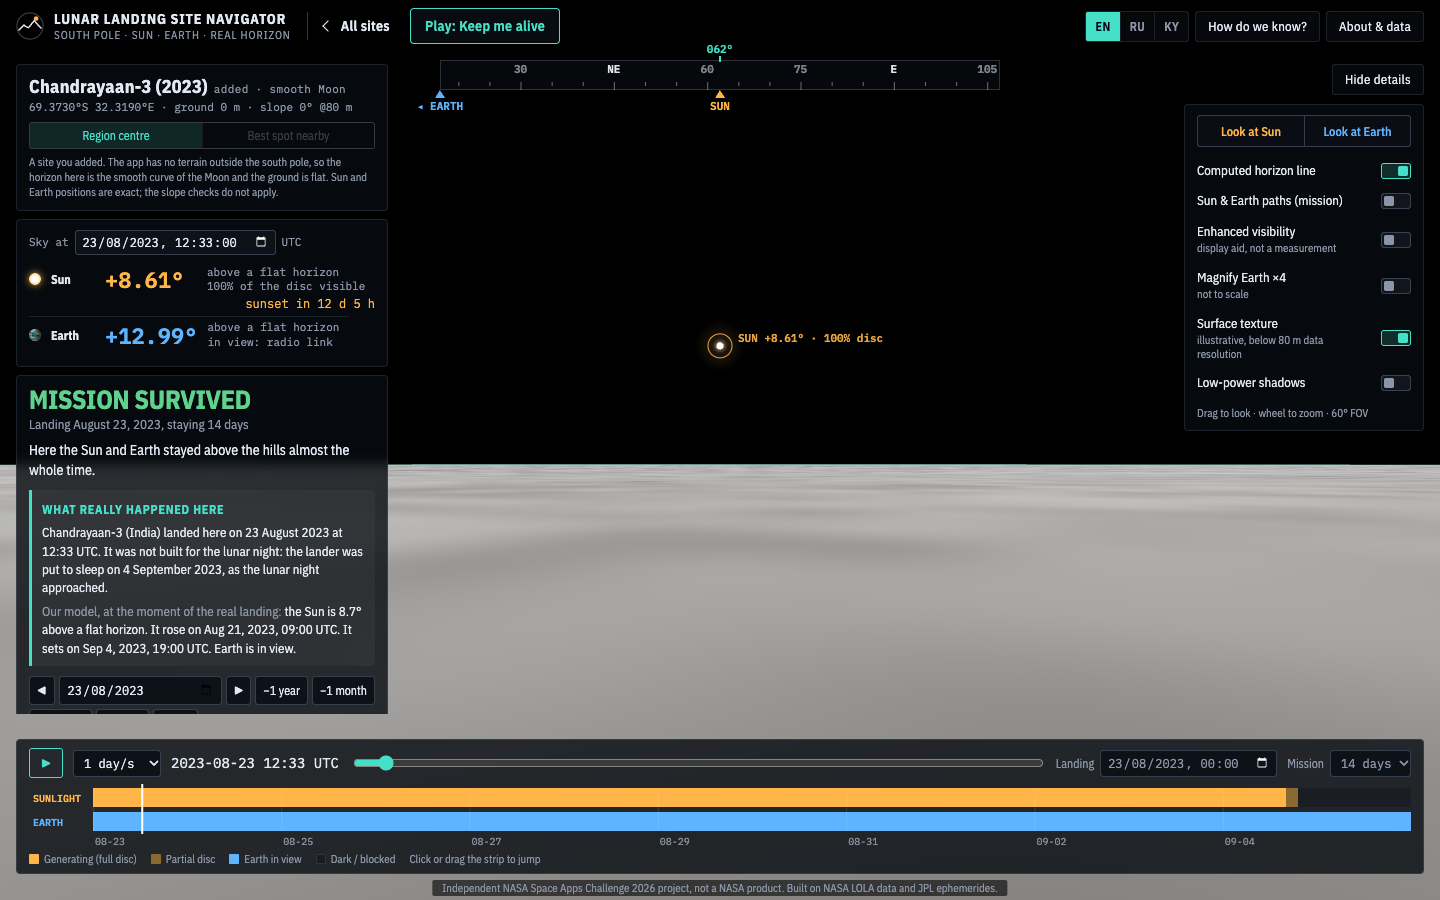
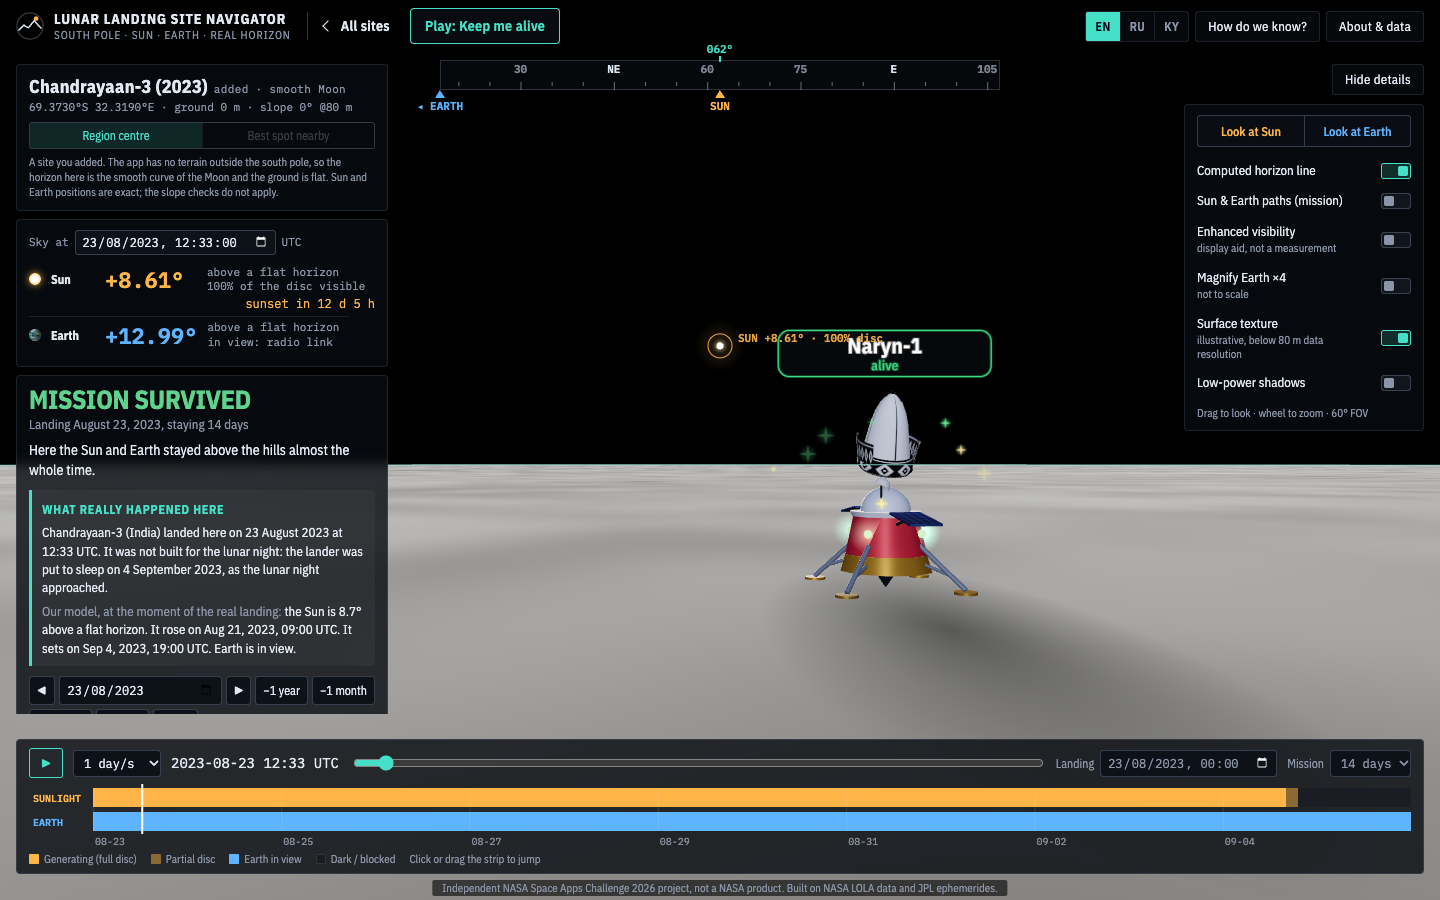
Four kids features together: mode buttons sit beside the lander card instead of on the day table, the card lies flat on ordinary screens, the empty button column lets taps through to the Moon (found by the ice hunter test on merged main), the lander name check counts only tags the name adds, npm run

Changed region(s): [[0.5625, 0.3422, 0.7812, 0.8089]]

diff --git a/app/css/app.css b/app/css/app.css
@@ -367,7 +367,10 @@ button:focus-visible, input:focus-visible, select:focus-visible, summary:focus-v
 @media (max-width: 760px) { #topbar { gap: 8px; } #back { border-left: 0; padding: 5px 0; font-size: 13px; gap: 6px; } #more { bottom: 262px; } html.min #more { bottom: 192px; } }
 
 /* ---------- kids features: one column of buttons on the map (#kidbar), one slot in the top bar on the site (#sitekid) ---------- */
-#kidbar { position: fixed; left: 16px; top: 64px; z-index: 12; display: flex; flex-direction: column; align-items: flex-start; gap: 8px; max-width: 300px; }
+/* The lander card first, the mode buttons beside it: a column would push them onto the day table below. */
+#kidbar { position: fixed; left: 16px; top: 64px; z-index: 12; display: flex; flex-flow: row wrap; align-items: flex-start; gap: 8px; max-width: min(760px, calc(100vw - 32px)); }
+/* The column is an empty box over the Moon: only its buttons and cards take the pointer, a tap beside them reaches the Moon. */
+#kidbar { pointer-events: none; } #kidbar > * { pointer-events: auto; }
 #sitekid { display: flex; gap: 8px; }
 .kidbtn { background: rgba(10,14,20,.78); border: 1px solid var(--teal); color: var(--teal); padding: 8px 14px; border-radius: 4px; cursor: pointer; font-weight: 600; font-size: 14px; letter-spacing: .02em; backdrop-filter: blur(6px); }
 .kidbtn:hover, .kidbtn.on { background: var(--teal); color: #001; }

diff --git a/app/css/lander.css b/app/css/lander.css
@@ -55,5 +55,12 @@
   .kl-card.closed { width: auto; flex: none; }
   .kl-prev { height: 120px; }
 }
-@media (max-height: 820px) and (min-width: 761px) { .kl-hint { display: none; } }
+/* A desktop screen of ordinary height: the card lies flat (picture left, choices right), clear of the day table below. */
+@media (max-height: 900px) and (min-width: 761px) {
+  .kl-card:not(.closed) { width: 500px; }
+  .kl-body { grid-template-columns: 150px 1fr; column-gap: 12px; }
+  .kl-prev { grid-column: 1; grid-row: 1 / span 4; height: auto; min-height: 150px; }
+  .kl-body > .kl-row { grid-column: 2; }
+  .kl-hint { display: none; }
+}
 @media (prefers-reduced-motion: reduce) { .kl-swatch { transition: none; } }
